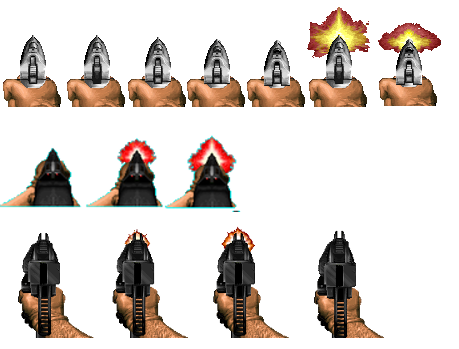
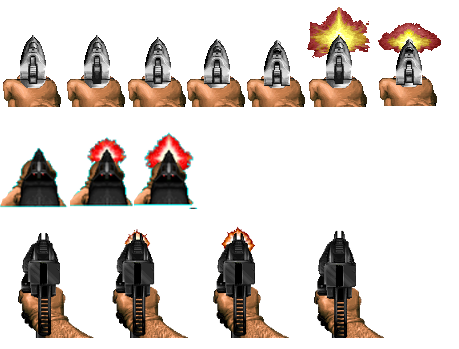
weapon change done

Changed region(s): [[0.0, 0.3725, 0.5185, 0.6017]]

diff --git a/ShootingGame/ShootingGame/Player.cs b/ShootingGame/ShootingGame/Player.cs
@@ -131,8 +131,8 @@ namespace ShootingGame
         {
             animator.CreateAnimation("GunIdle", new Animation(1, 20, 0, 60, 90, 1, Vector2.Zero));
             animator.CreateAnimation("GunShoot", new Animation(6, 20, 1, 62, 90, 30, Vector2.Zero));
-            animator.CreateAnimation("RifleIdle", new Animation(1, 135, 0, 80, 70, 1, Vector2.Zero));
-            animator.CreateAnimation("RifleShoot", new Animation(3, 135, 0, 80, 70, 20, Vector2.Zero));
+            animator.CreateAnimation("RifleIdle", new Animation(1, 132, 0, 67, 70, 1, Vector2.Zero));
+            animator.CreateAnimation("RifleShoot", new Animation(3, 132, 0, 67, 70, 20, Vector2.Zero));
             animator.CreateAnimation("MachineGunIdle", new Animation(1, 225, 0, 90, 110, 1, Vector2.Zero));
             animator.CreateAnimation("MachineGunShoot", new Animation(3, 225, 1, 96, 110, 20, Vector2.Zero));
             animator.PlayAnimation("GunIdle");
